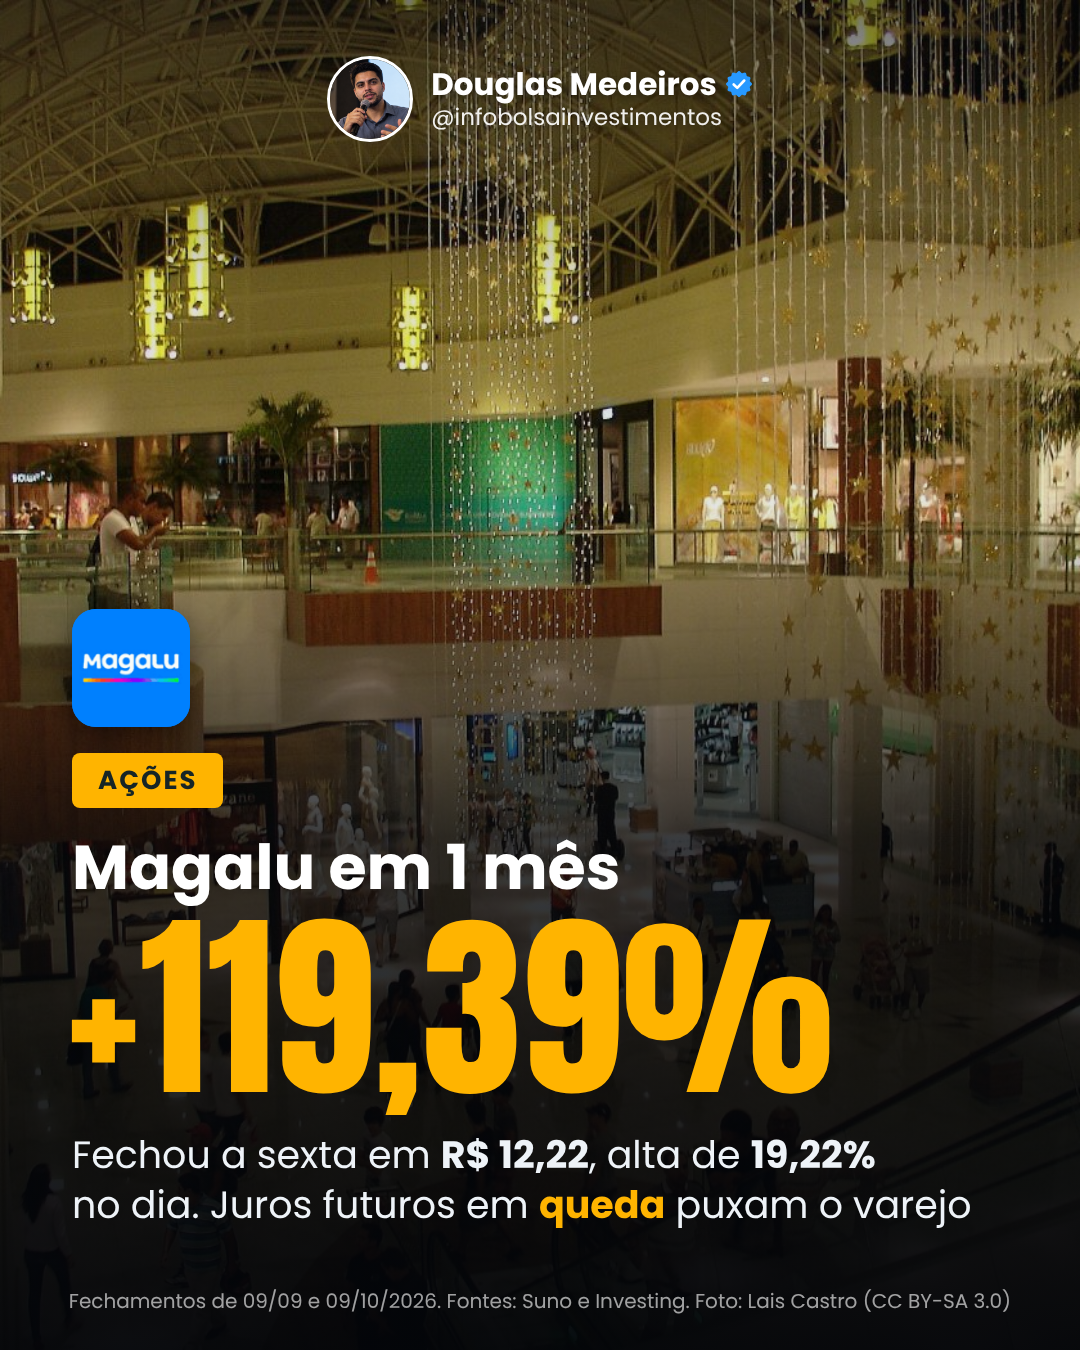
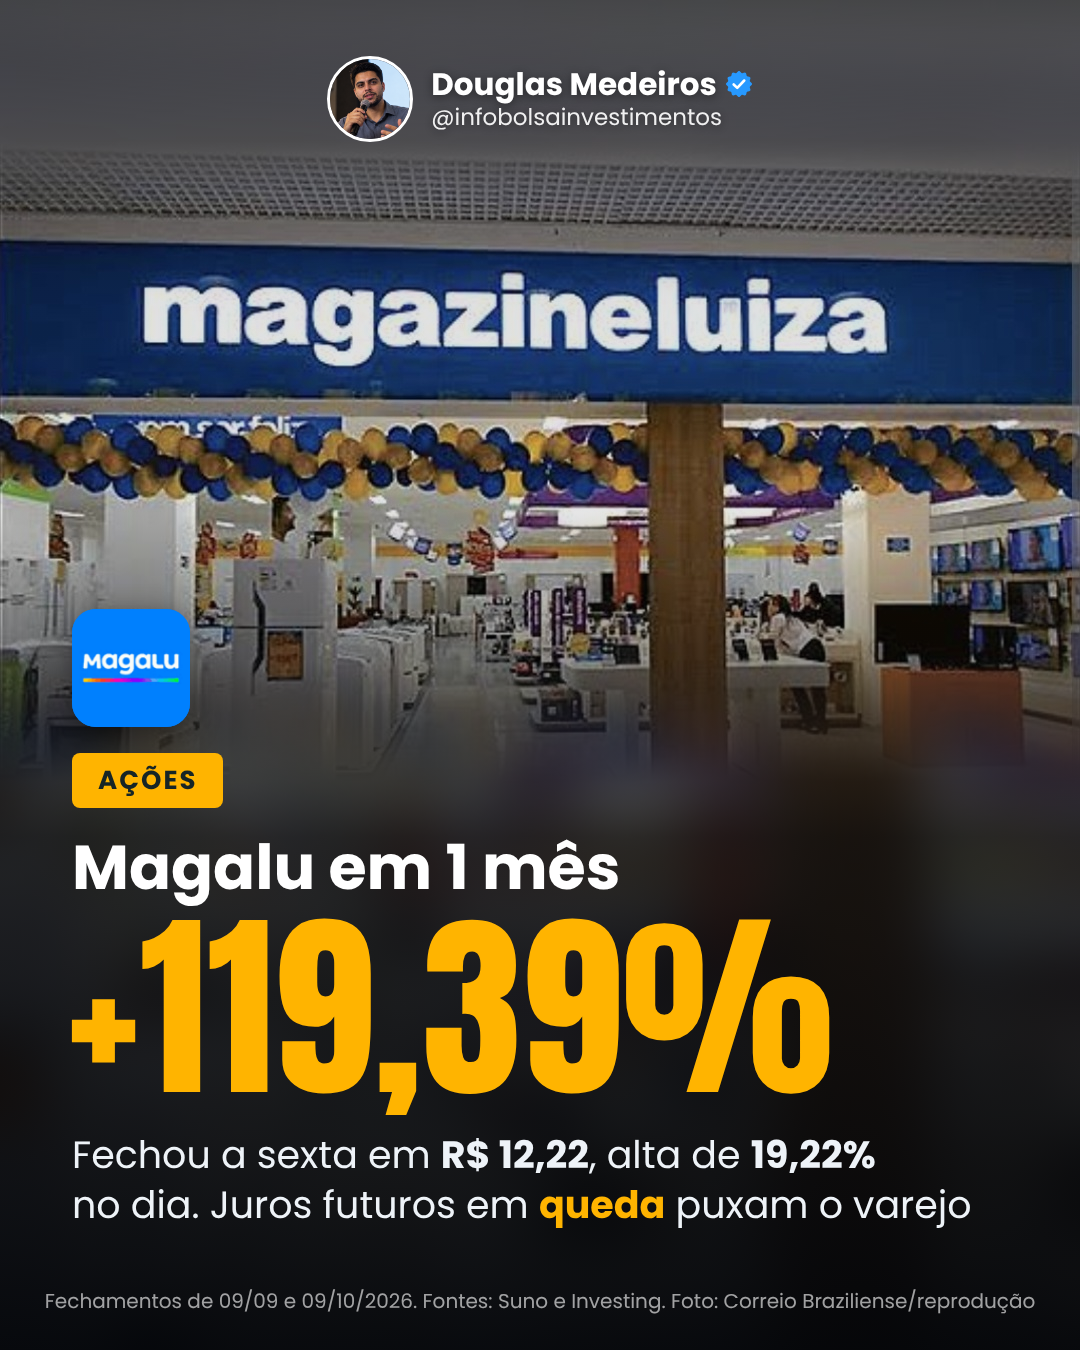
Foto da loja Magalu no post de 10/10
Claude-Session: https://claude.ai/code/session_01V4Ut9U2W4uPbxLAyJQKmJH

diff --git a/ROTINA-noticia.md b/ROTINA-noticia.md
@@ -57,6 +57,7 @@ Crie `kit/configs/noticia/AAAA-MM-DD.json` (veja `exemplo-manchete.json` e `exem
 | FIIs de shopping, varejo | `foto-shopping-*.jpg`, `foto-varejo-loja-*.jpg` |
 | Agro, Fiagros, safra | `foto-agro-*.jpg`, `foto-gado-*.jpg` |
 | BlackRock, gestoras estrangeiras | `foto-blackrock-sede-1.jpg` (foco `12% 100%`, `"zoom": "auto 125%"`), `foto-blackrock-sede-2.jpg` |
+| Magazine Luiza, varejo de eletro | `foto-magalu-loja-1.jpg` |
 | Energia, elétricas | `foto-itaipu-energia-*.jpg`, `foto-angra-energia-nuclear-1.jpg` |
 
 VARIE AS FOTOS: o Douglas não quer o mesmo fundo repetido. Veja o `fundo` dos configs dos últimos 7 dias em `kit/configs/noticia/` (e de `pronto/`) e NÃO repita uma foto usada nesse período; se o tema tiver várias fotos, use outra do mesmo tema. O touro (`fundo-touro-b3.jpg`) só quando não houver outra opção ligada ao assunto.
